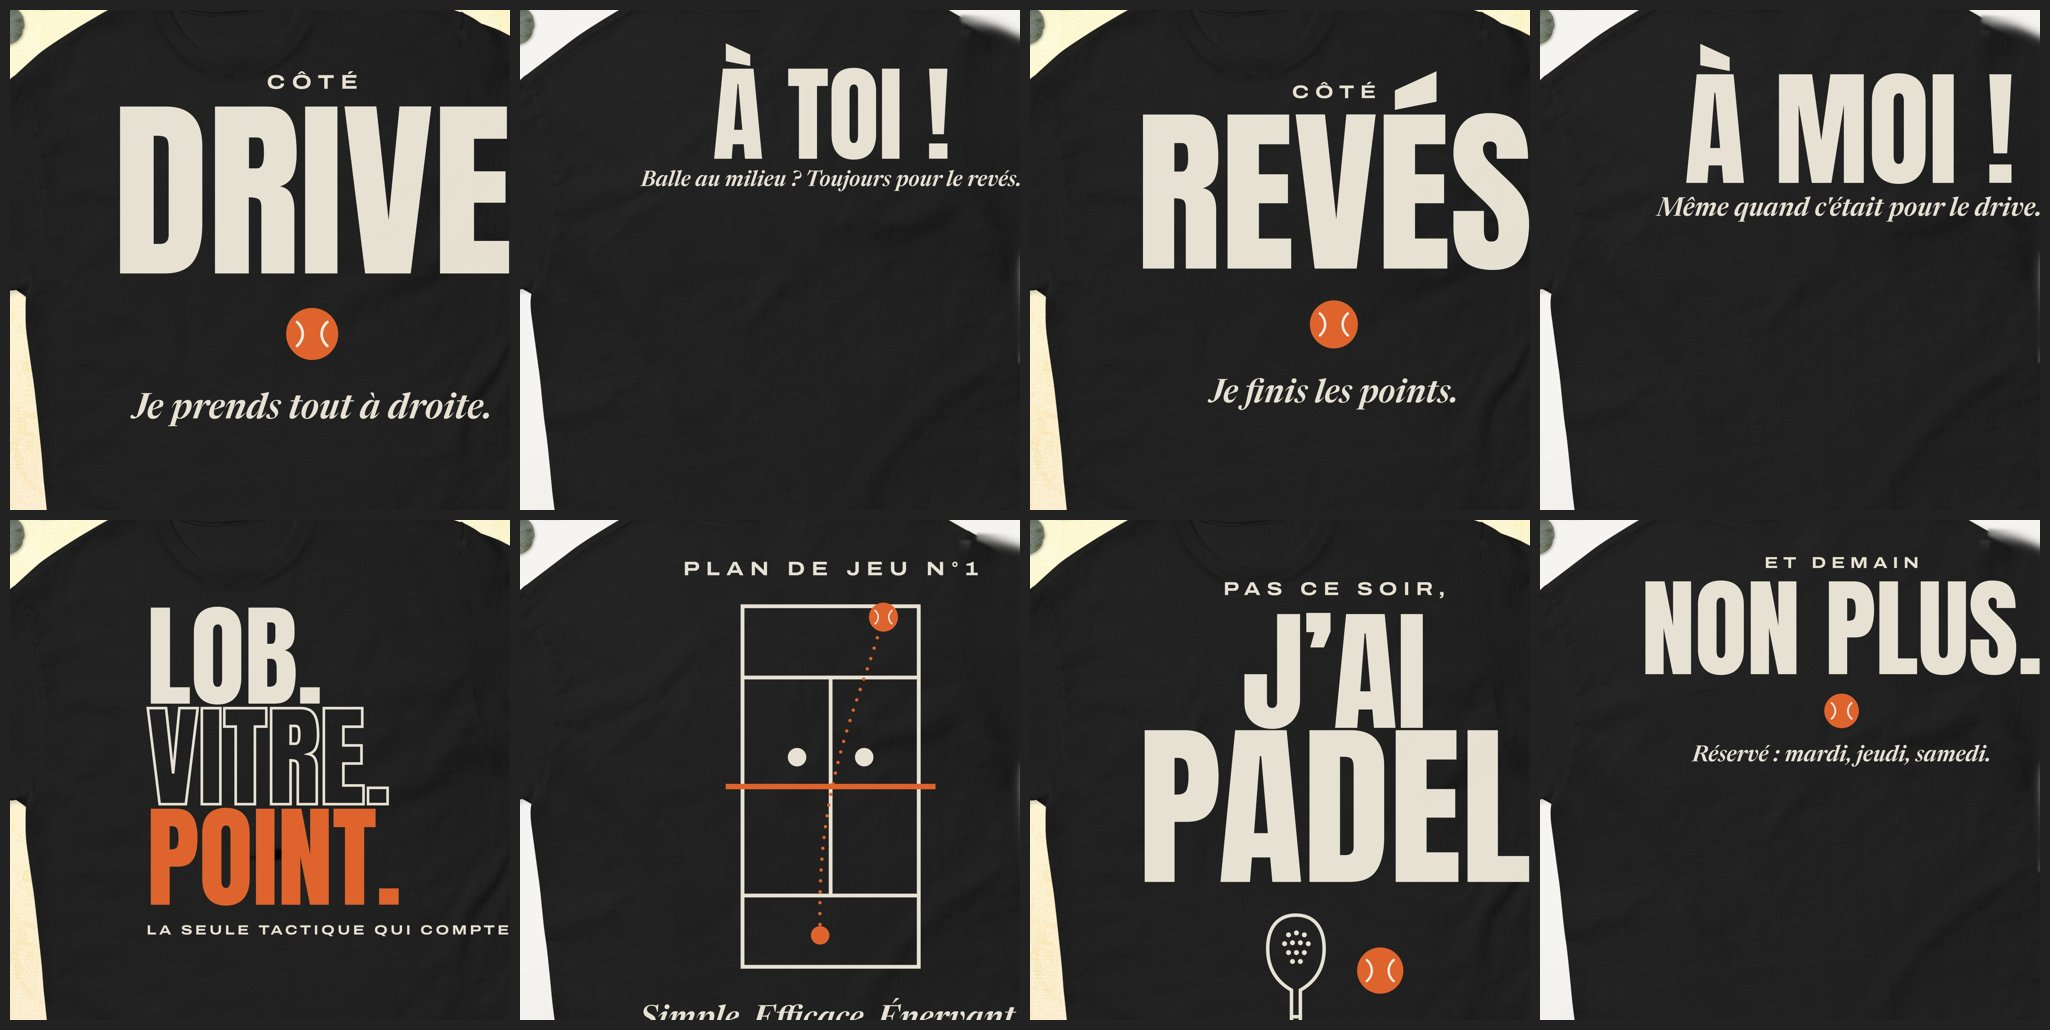
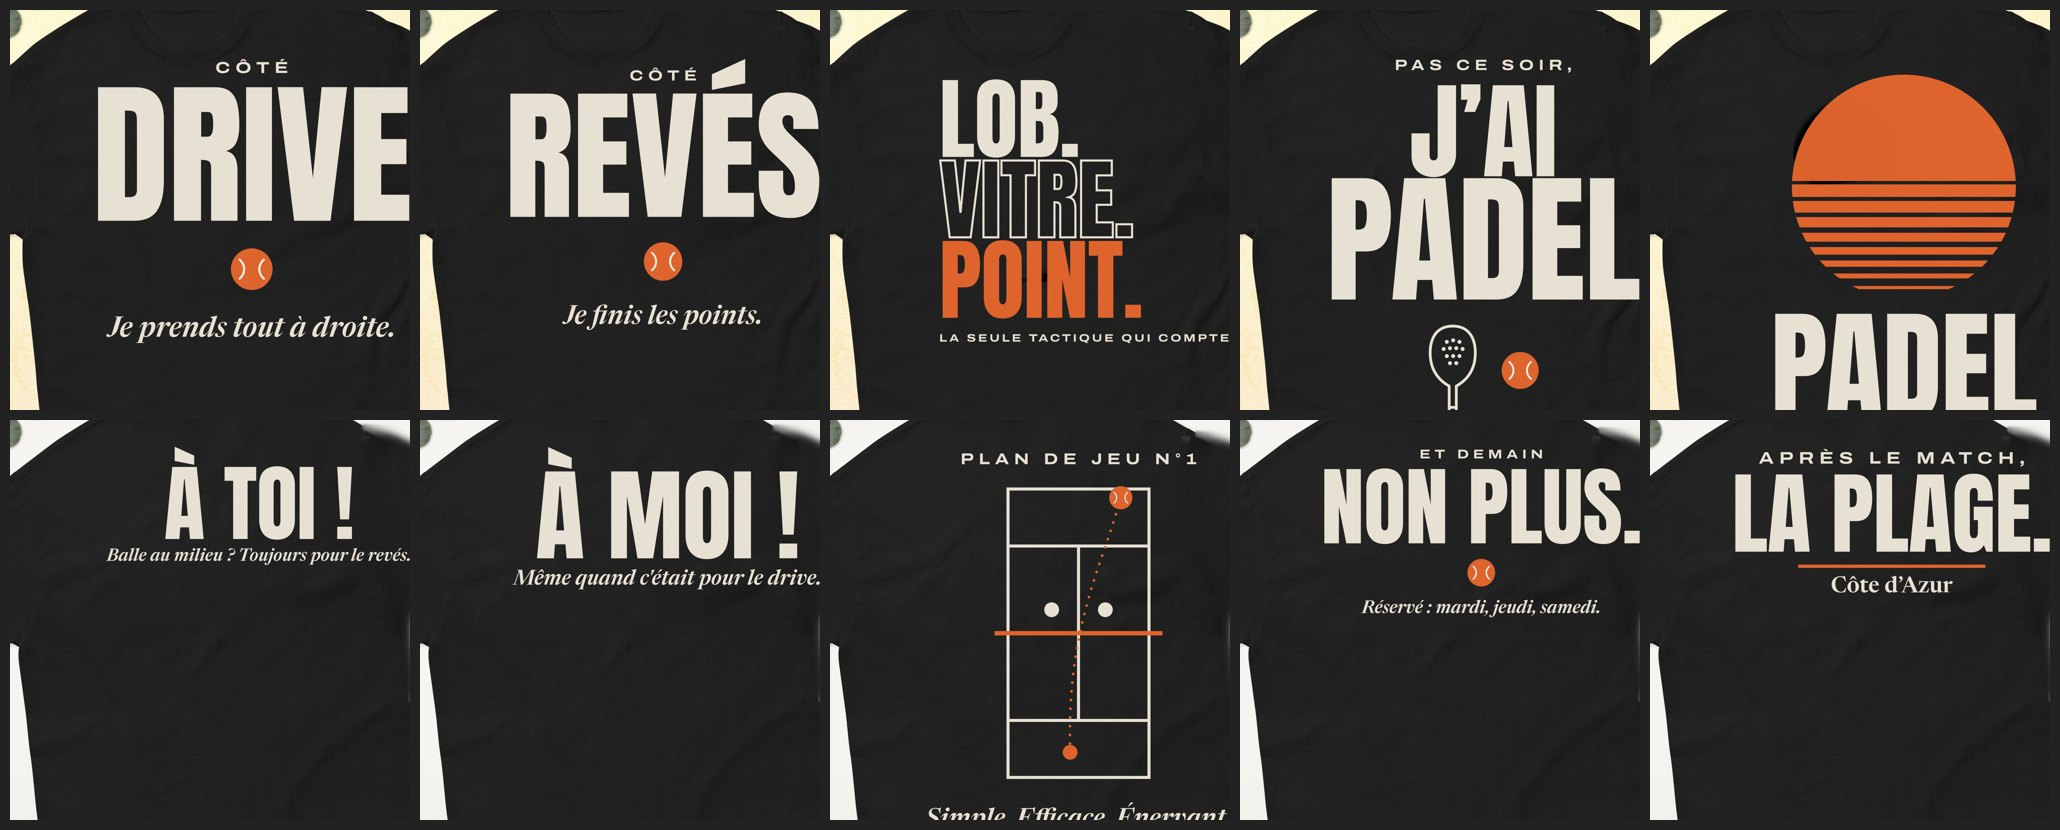
Visuels noirs : ajout de Padel Côte d'Azur (devant et dos)
Claude-Session: https://claude.ai/code/session_01C8kmmK5jZdRE52kQ46Hk13

diff --git a/shopify/designs/noir/source/designs-fonce.html b/shopify/designs/noir/source/designs-fonce.html
@@ -90,6 +90,30 @@ svg{display:block}
   <div class="it" style="font-size:62px;margin-top:44px">Réservé : mardi, jeudi, samedi.</div>
 </div>
 
+
+<!-- PADEL CÔTE D'AZUR · devant -->
+<div class="zone" id="azur-f">
+  <svg width="560" height="560" viewBox="0 0 100 100" style="margin-top:70px">
+    <defs><clipPath id="sunc"><circle cx="50" cy="50" r="50"/></clipPath></defs>
+    <g clip-path="url(#sunc)" fill="var(--ac)">
+      <rect x="0" y="0" width="100" height="47.5"/>
+      <rect x="0" y="49" width="100" height="5.6"/><rect x="0" y="56.4" width="100" height="5.2"/><rect x="0" y="63.6" width="100" height="4.6"/>
+      <rect x="0" y="70.6" width="100" height="4"/><rect x="0" y="77" width="100" height="3.4"/><rect x="0" y="83" width="100" height="2.8"/>
+      <rect x="0" y="88.8" width="100" height="2.2"/><rect x="0" y="94.4" width="100" height="1.4"/></g>
+  </svg>
+  <div class="big" style="font-size:300px;margin-top:40px">Padel</div>
+  <div class="small" style="font-size:62px;margin-top:36px;letter-spacing:.3em">Côte d’Azur</div>
+  <div class="it" style="font-size:66px;margin-top:14px">Soleil, vitres et bandejas.</div>
+</div>
+
+<!-- PADEL CÔTE D'AZUR · dos -->
+<div class="zone" id="azur-b">
+  <div class="small" style="font-size:46px;margin-top:70px">Après le match,</div>
+  <div class="big" style="font-size:250px;margin-top:22px">La plage.</div>
+  <div style="width:520px;height:9px;background:var(--ac);margin-top:34px"></div>
+  <div style="font-family:'Newsreader',serif;font-weight:600;font-style:normal;font-size:62px;margin-top:22px">Côte d’Azur</div>
+</div>
+
 <svg width="0" height="0" style="position:absolute"><defs>
   <g id="ball"><circle cx="50" cy="50" r="48" fill="var(--ac)"/>
     <g fill="none" stroke="#FFF7EC" stroke-width="5" stroke-linecap="round"><path d="M22 28 C 36 40 36 60 22 72"/><path d="M78 28 C 64 40 64 60 78 72"/></g></g>

diff --git a/shopify/designs/noir/source/fonts/print.css b/shopify/designs/noir/source/fonts/print.css
@@ -23,3 +23,11 @@
   src: url('Newsreader-4362.woff2') format('woff2');
   unicode-range: U+0000-00FF, U+0131, U+0152-0153, U+02BB-02BC, U+02C6, U+02DA, U+02DC, U+0304, U+0308, U+0329, U+2000-206F, U+20AC, U+2122, U+2191, U+2193, U+2212, U+2215, U+FEFF, U+FFFD;
 }
+@font-face{
+  font-family: 'Newsreader';
+  font-style: normal;
+  font-weight: 600;
+  font-display: swap;
+  src: url('NewsreaderRoman-600.woff2') format('woff2');
+  unicode-range: U+0000-00FF, U+0131, U+0152-0153, U+02BB-02BC, U+02C6, U+02DA, U+02DC, U+0304, U+0308, U+0329, U+2000-206F, U+20AC, U+2122, U+2191, U+2193, U+2212, U+2215, U+FEFF, U+FFFD;
+}

diff --git a/shopify/designs/noir/LISEZ-MOI.md b/shopify/designs/noir/LISEZ-MOI.md
@@ -1,6 +1,6 @@
 # Versions pour t-shirt noir
 
-Les modèles « Côté drive », « Côté revés », « Lob. Vitre. Point. » et « J'ai padel » étaient imprimés en bleu nuit, une couleur qui se voit très mal sur le t-shirt noir. Ces fichiers sont la même chose redessinée en clair pour le noir : texte crème `#F1EBDD`, orange `#E8672E` conservé (balle, « POINT. », filet du terrain).
+Les modèles « Côté drive », « Côté revés », « Lob. Vitre. Point. », « J'ai padel » et « Padel Côte d'Azur » étaient imprimés en bleu nuit, une couleur qui se voit très mal sur le t-shirt noir. Ces fichiers sont la même chose redessinée en clair pour le noir : texte crème `#F1EBDD`, orange `#E8672E` conservé (balle, « POINT. », filet du terrain).
 
 ## Fichiers (`impression/`)
 
@@ -10,16 +10,17 @@ Les modèles « Côté drive », « Côté revés », « Lob. Vitre. Point. » e
 | `cote-reves_devant_noir.png` / `cote-reves_dos_noir.png` | devant / dos |
 | `lob-vitre-point_devant_noir.png` / `lob-vitre-point_dos_noir.png` | devant / dos |
 | `j-ai-padel_devant_noir.png` / `j-ai-padel_dos_noir.png` | devant / dos |
+| `padel-cote-d-azur_devant_noir.png` / `padel-cote-d-azur_dos_noir.png` | devant / dos |
 
 - PNG à fond transparent, recadrés au dessin (marge de 60 px), 300 dpi, comme les fichiers de `designs/final/`.
-- Taille d'impression à 300 dpi : drive devant 9,0 × 8,3 in · dos 11,2 × 4,6 in ; revés devant 9,7 × 8,5 in · dos 9,5 × 4,6 in ; lob devant 10,1 × 9,2 in · dos 9,5 × 11,7 in ; j'ai padel devant 10,0 × 12,6 in · dos 11,3 × 6,2 in.
+- Taille d'impression à 300 dpi : drive devant 9,0 × 8,3 in · dos 11,2 × 4,6 in ; revés devant 9,7 × 8,5 in · dos 9,5 × 4,6 in ; lob devant 10,1 × 9,2 in · dos 9,5 × 11,7 in ; j'ai padel devant 10,0 × 12,6 in · dos 11,3 × 6,2 in ; Côte d'Azur devant 7,6 × 10,8 in · dos 9,1 × 4,4 in.
 - Dans Printful : centrer horizontalement, placer en haut de la zone, et régler la largeur sur celle de la version bleu nuit actuelle pour garder la même taille.
 - Le texte est crème : sur un fond d'aperçu blanc ou à damier clair, il se voit mal. C'est normal, il est fait pour le noir.
 - `apercus/` : rendu sur la photo Printful du t-shirt noir, l'ancien visuel effacé. Indicatif.
 
 ## Ce qui change par rapport aux originaux
 
-Les fichiers d'origine n'étaient pas dans le dépôt : les visuels ont été redessinés d'après les photos Printful. Textes, pictos et mise en page sont les mêmes. Les polices sont les plus proches disponibles en libre : Anton (gros titres), Archivo Expanded (petites capitales), Newsreader italique (phrases). Elles sont sous licence SIL Open Font, utilisables commercialement.
+Les fichiers d'origine n'étaient pas dans le dépôt : les visuels ont été redessinés d'après les photos Printful. Textes, pictos et mise en page sont les mêmes. Les polices sont les plus proches disponibles en libre : Anton (gros titres), Archivo Expanded (petites capitales), Newsreader italique et droit (phrases). Elles sont sous licence SIL Open Font, utilisables commercialement.
 
 ## Source
 
